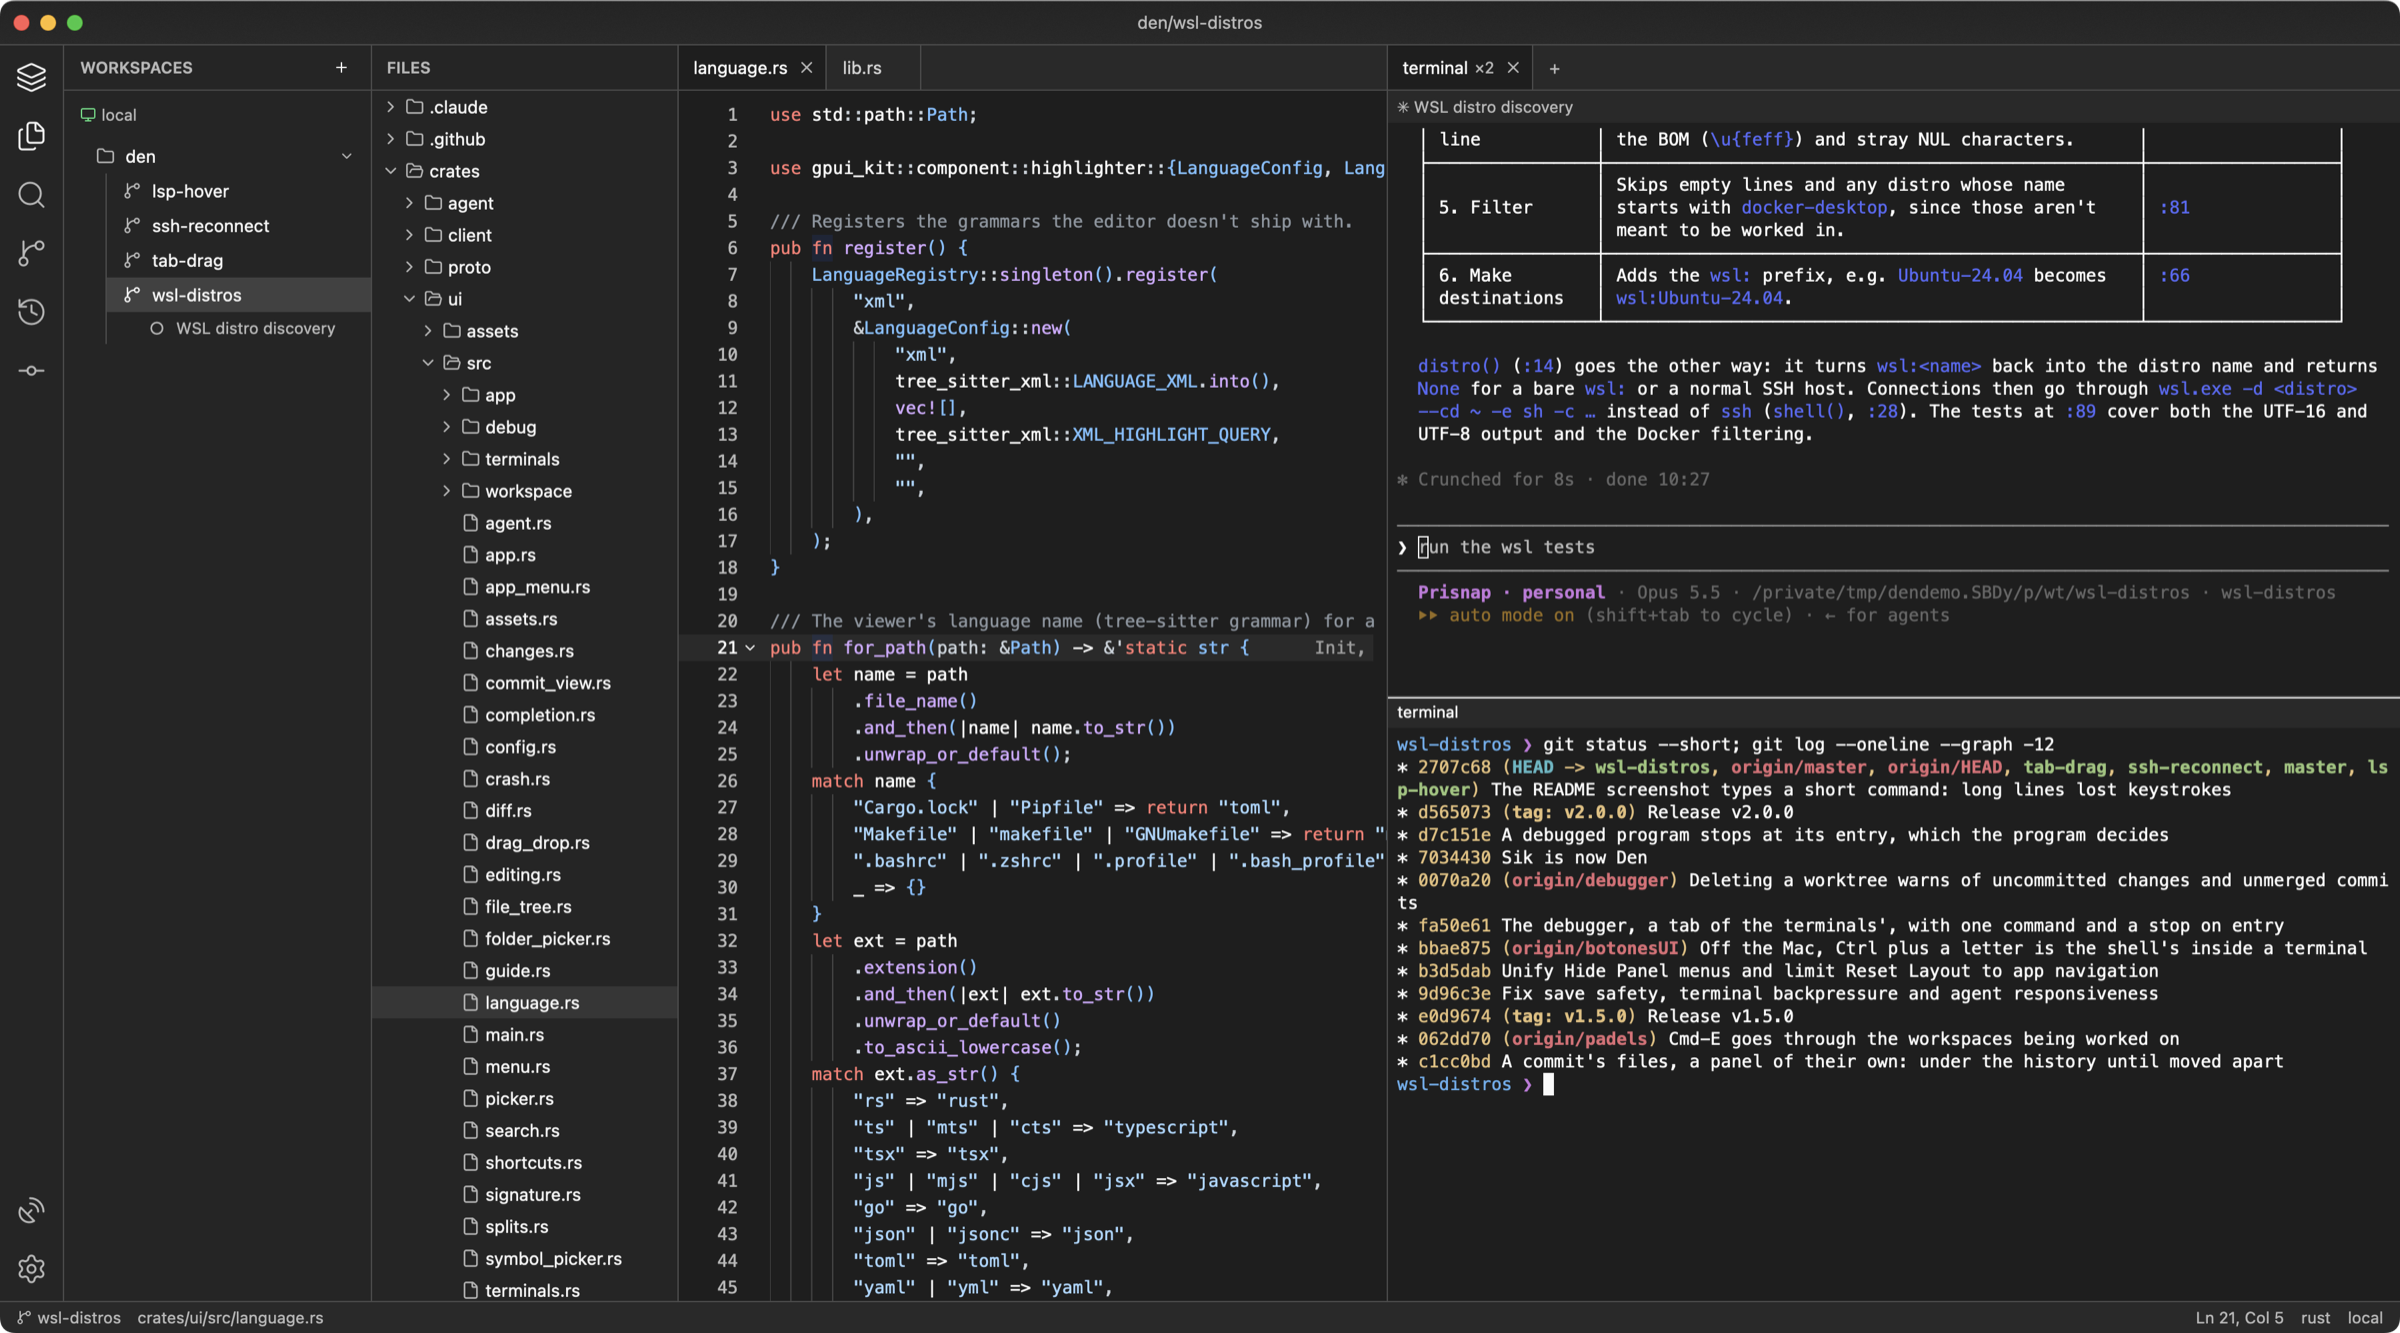
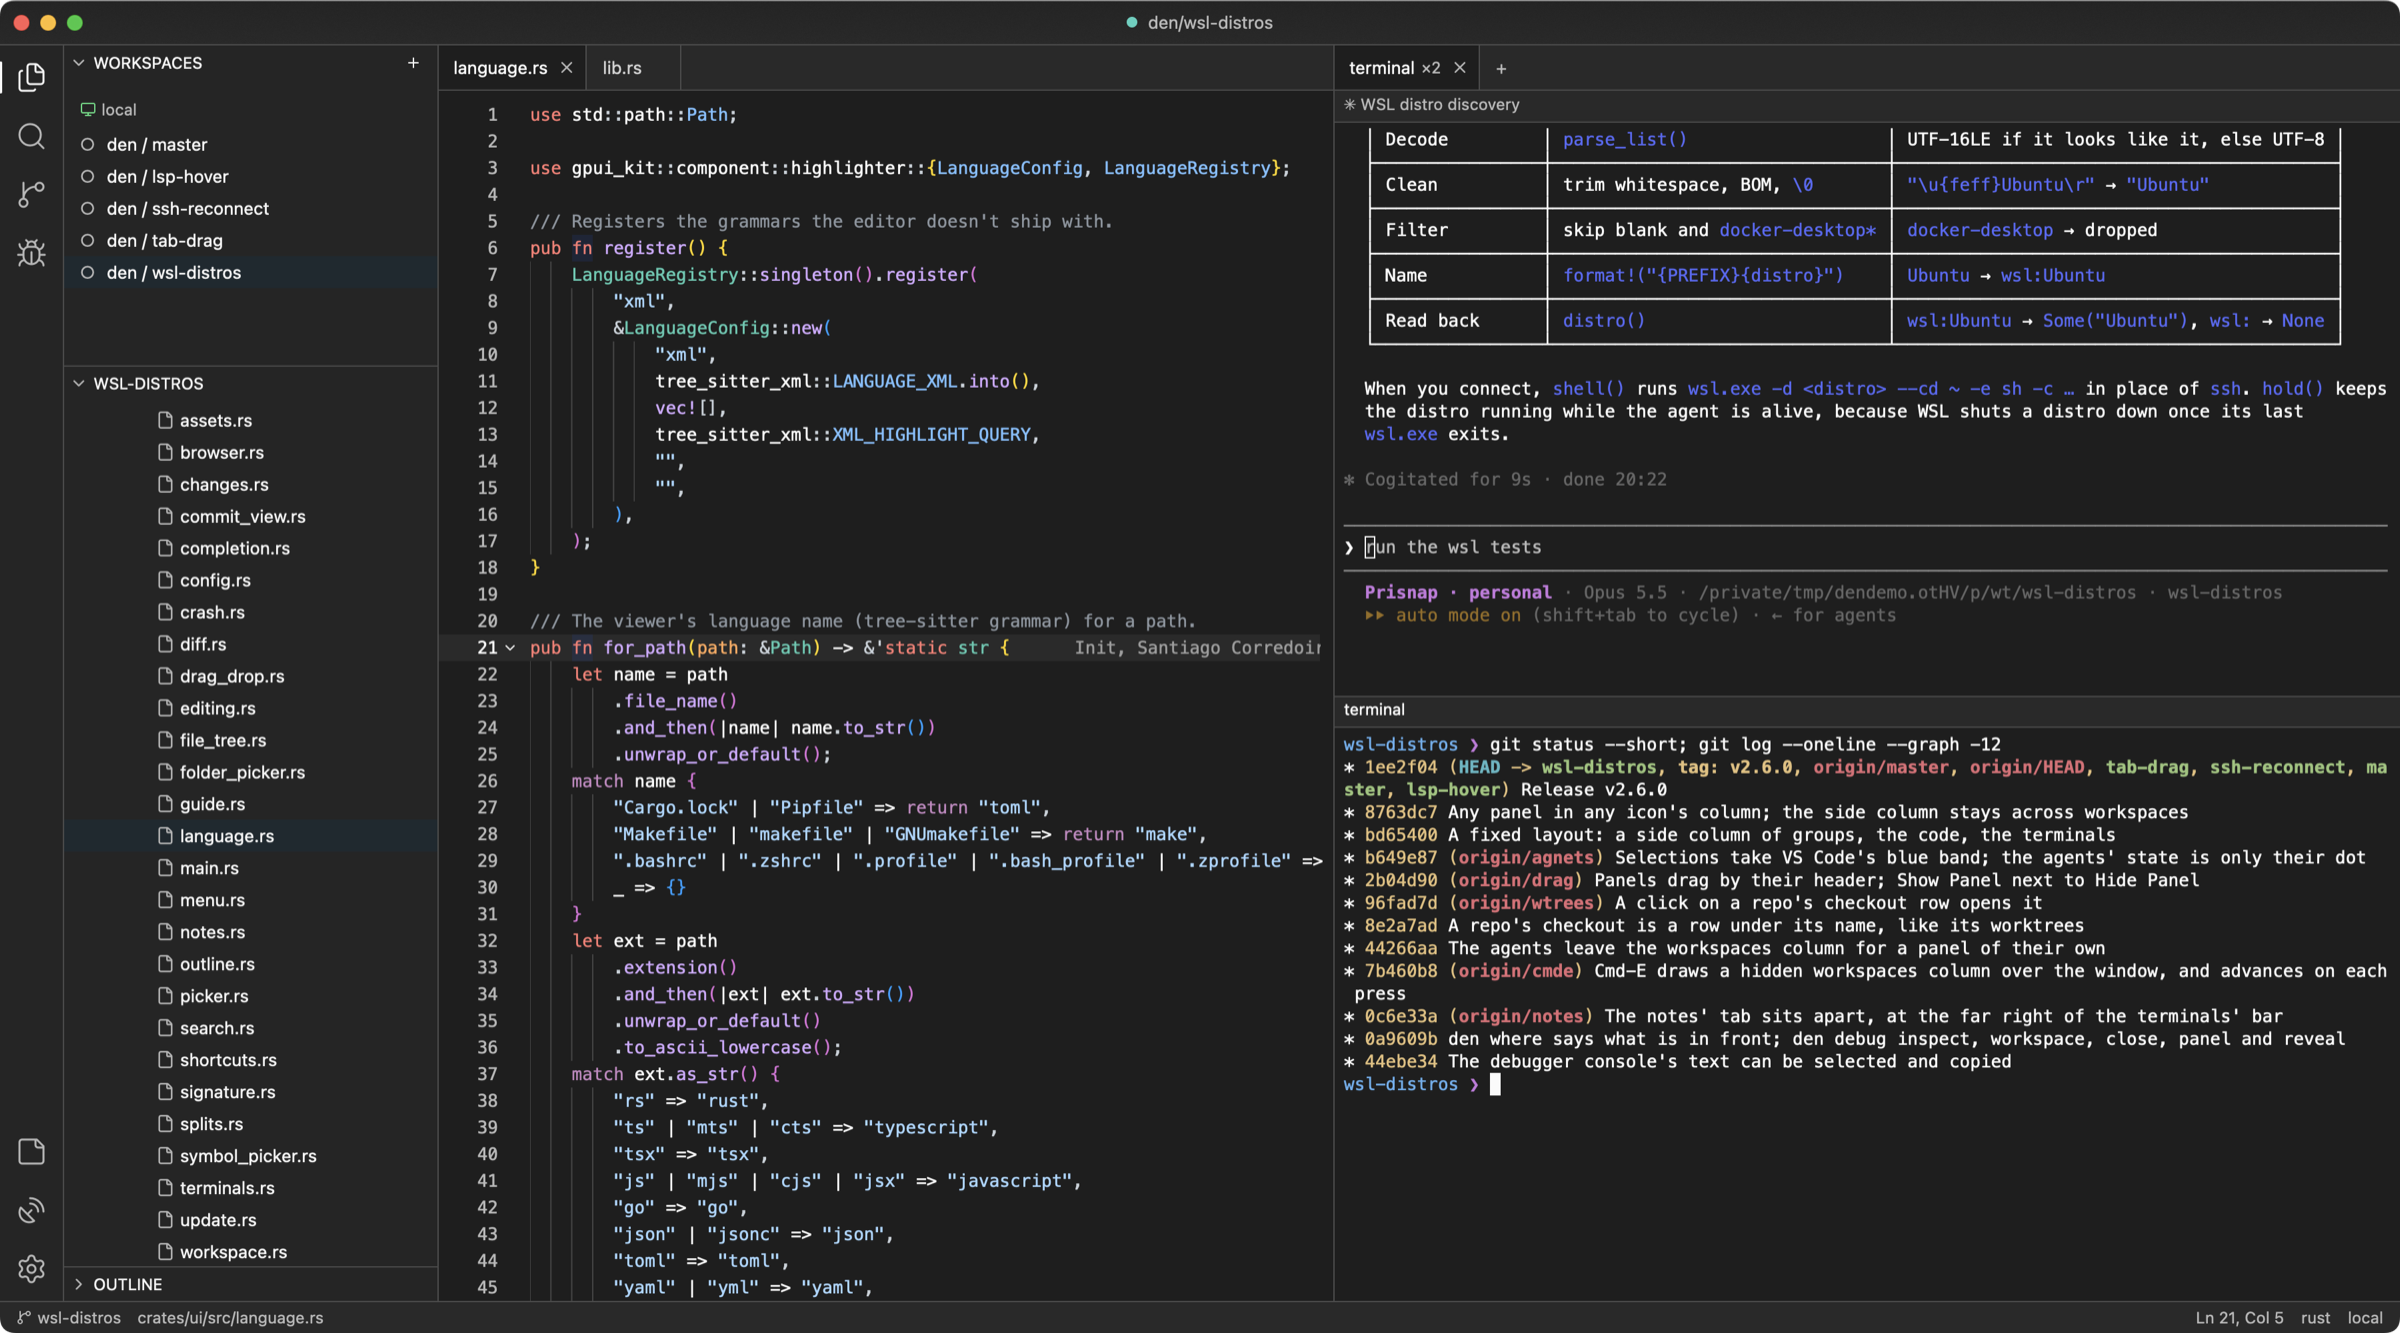
The README and its screenshot show the fixed layout
The screenshot script writes the new layout config and splits with Cmd-D
(Cmd-Shift-D now shows Run and Debug). The README calls the workspaces a
panel, gives the terminal split shortcuts and moves the notes under Layout.

diff --git a/README.md b/README.md
@@ -10,7 +10,7 @@
 </p>
 
 <p align="center">
-  <img src="docs/screenshots/main.png" alt="Den: the workspaces column, the code, and Claude Code next to a shell in split terminals">
+  <img src="docs/screenshots/main.png" alt="Den: the Workspaces and Files panels, the code, and Claude Code above a shell in split terminals">
 </p>
 
 - **Native, in Rust.** GPU-rendered with GPUI, no Electron. On macOS, Linux and Windows.
@@ -20,7 +20,7 @@
 - **Git built in.** Every workspace is a folder, a checkout or a worktree, and New Worktree (Cmd-Shift-N) starts one per task. Uncommitted changes, the history of the repo or of a file, side-by-side diffs (in one column when there's no room for two), commits with all their files, and the blame of the current line. Den only reads: commit and push from a terminal.
 - **A debugger.** Breakpoints in the gutter (with conditions, hit counts and logpoints), stepping, the values of the variables written in the code as it stops, hover, watches and a console that evaluates and assigns. For any program that speaks [Den's debug protocol](docs/debugger.md), on your machine or on a server.
 - **A phone beside the code.** On macOS, the Device panel shows the screen of an iOS simulator or any other phone a program serves with [Den's device protocol](docs/device.md): the mouse is a finger, the keyboard is the phone's, and F10 still steps through the code.
-- **Every agent at a glance.** The workspaces of all your servers in one column, each with a dot for the coding agents (Claude Code, Codex…) running in its terminals: red when one is asking something, yellow while one works, green when they finished unseen. The Agents panel lists them all. No hooks: Den reads the terminals. Cmd-1…9, Cmd-E and Cmd-Alt-E jump between them.
+- **Every agent at a glance.** The workspaces of all your servers in one panel, each with a dot for the coding agents (Claude Code, Codex…) running in its terminals: red when one is asking something, yellow while one works, green when they finished unseen. The Agents panel lists them all. No hooks: Den reads the terminals. Cmd-1…9, Cmd-E and Cmd-Alt-E jump between them.
 - **Agents drive Den.** With the `den` command, Claude shows you the code it's talking about with the range selected, the diff to review or a Markdown report, reads what you selected, and opens terminals, reads them and types in them. Den installs a Claude Code skill so Claude knows how.
 
 ## Install
@@ -94,7 +94,7 @@ Format Document (Shift-Opt-F), and Format on Save for the types chosen in Settin
 
 Cmd-E goes straight into the next one with a coding agent, in the panel's order, and Cmd-Alt-Shift-E into the next one of all. Cmd-Alt-E switches between the ones being worked on as Cmd-Tab does between apps: the previous one, then those with a coding agent, the ones waiting for an answer first and each the most recently used first (all of them while no other has an agent); holding Cmd, each E goes one further (Shift-E back) and letting go enters it. Cmd-K finds one across servers, the most recently used first. On Linux and Windows these are Ctrl-Alt-E, Ctrl-Alt-Shift-E, Ctrl-Tab and Ctrl-Shift-K, so that Ctrl plus a letter stays the shell's inside a terminal. Every shortcut can be changed in Settings (Cmd-,).
 
-Drag a terminal tab to the left, right, top or bottom edge of another terminal to split the area. In a split, drag a pane's title back to the tab bar to separate it again. Escape cancels the drag; sessions and their history stay open.
+Cmd-D splits a terminal down and Cmd-Alt-D to the right (Ctrl-Alt-D and Ctrl-Shift-5 on Linux and Windows), and Cmd-Alt-arrows move between the panes. Drag a terminal tab to the left, right, top or bottom edge of another terminal to split the area. In a split, drag a pane's title back to the tab bar to separate it again. Escape cancels the drag; sessions and their history stay open.
 
 ## Layout
 
@@ -106,6 +106,8 @@ Each workspace in the Workspaces panel has a dot for the coding agents (Claude C
 
 The side column, what it shows and where things go are the same in every workspace: going from one to another moves nothing. Each workspace keeps whether its terminals and its device show; a new one shows the terminals. Reset Layout (View, or the activity bar's right-click) puts it all back as it starts.
 
+Each workspace has its notes, which open over the window from the activity bar or with Cmd-Alt-N (Esc or a click outside closes them): plain Markdown for what's next there, kept by Den in its config folder, never in the repo, and forgotten when the worktree is removed. Their icon gets a dot while they have something, and Cmd-E shows their first line on the way in.
+
 ## Debugging
 
 A workspace says how to start its program in `.den/debug.json`:
@@ -115,8 +117,6 @@ A workspace says how to start its program in `.den/debug.json`:
 ```
 
 `${file}` is the open file: the program decides what debugging it means (a script, a test, the server it belongs to). `${port}` is a free port the agent picks for this session. F5 runs the command in a terminal and connects to the port. With a fixed `"port"` instead of `${port}`, it attaches when something already answers on it, or when there's no command. With `"open": "http://localhost:<port>/<page>"`, the browser opens that page once the program listens on that port (a server, not a script); on macOS, a Chrome tab already showing that server comes to the front instead. A program started this way stops at its first line, as Visual Studio does (F5 goes on), except a server with `open`, which runs and shows its page as soon as it listens. Its call stack, variables, watches and breakpoints are the Run and Debug group of the side column, with the toolbar at its top; its console is a tab after the terminals'. F9 toggles a breakpoint (or click the gutter; right-click it for a condition, a hit count or a log message), F10 steps over, F11 into, Shift-F11 out, Ctrl-F10 runs to the cursor, Ctrl-Shift-F10 makes the cursor's line the next statement, F6 pauses, Shift-F5 stops and Cmd-Shift-D shows or hides Run and Debug. See [docs/debugger.md](docs/debugger.md).
-
-Each workspace has its notes, which open over the window from the activity bar or with Cmd-Alt-N (Esc or a click outside closes them): plain Markdown for what's next there, kept by Den in its config folder, never in the repo, and forgotten when the worktree is removed. Their icon gets a dot while they have something, and Cmd-E shows their first line on the way in.
 
 ## Updates
 
